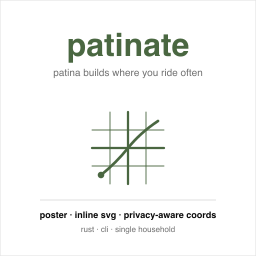
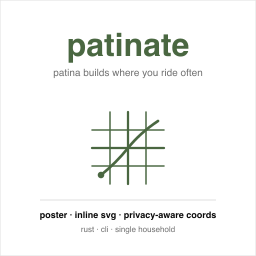
polish(site): apply diagram visual-language pass
Brings patinate into line with reference's /design/diagrams/ rules,
matching the bairn pass (d919a9c, 74905b9, 8714403).

pipeline.svg:
- "trim before you add": drop the bottom cross-flow ("render reads
  all three caches" arc + caption). The vertical arrows above
  already establish each stage's local-state pair; the prose under
  the diagram names the cross-read in language. The diagram says
  the same thing with one less element.
- snap the bottom row to the 4-unit grid: rect y=290 → y=288, text
  y=312 → y=308, y=326 → y=324; vertical arrow endpoints + heads
  re-anchored to the new row.
- arrowhead geometry tightened (a bit blunter / more even).

Brand glyph (favicon + avatar inline + hero inline + hero-glyph):
- thin street grid strokes flattened from 0.6 → 1 (canonical
  hairline). The arterials stay at 1.5 (content) and the heat
  trail at 1.8 (focal content). Consistent stroke tiers
  end-to-end.

CSS .hero-glyph opacity: 0.95 → 0.45. The hero title "patinate"
alone holds the moss accent in the hero band; the city-grid +
heat-trail glyph recedes into a supporting layer behind. Comment
inline names the rule ("the accent is a budget") and the source
page.

brand.png + avatar.png regenerated via brand.sh. GitLab project
avatar synced via glab api PUT projects/:fullpath.

Changed region(s): [[0.3438, 0.4375, 0.6562, 0.7188]]

diff --git a/web/src/styles/global.css b/web/src/styles/global.css
@@ -267,7 +267,11 @@ main.page {
   right: 0;
   width: 180px;
   height: auto;
-  opacity: 0.95;
+  /* Recedes so the hero title alone holds the moss accent focus.
+     Per reference's /design/diagrams/ "the accent is a budget":
+     decorative glyphs in the hero band don't compete with the
+     title for attention. */
+  opacity: 0.45;
 }
 .hero-title {
   font-size: clamp(3.5rem, 8vw, 6rem);